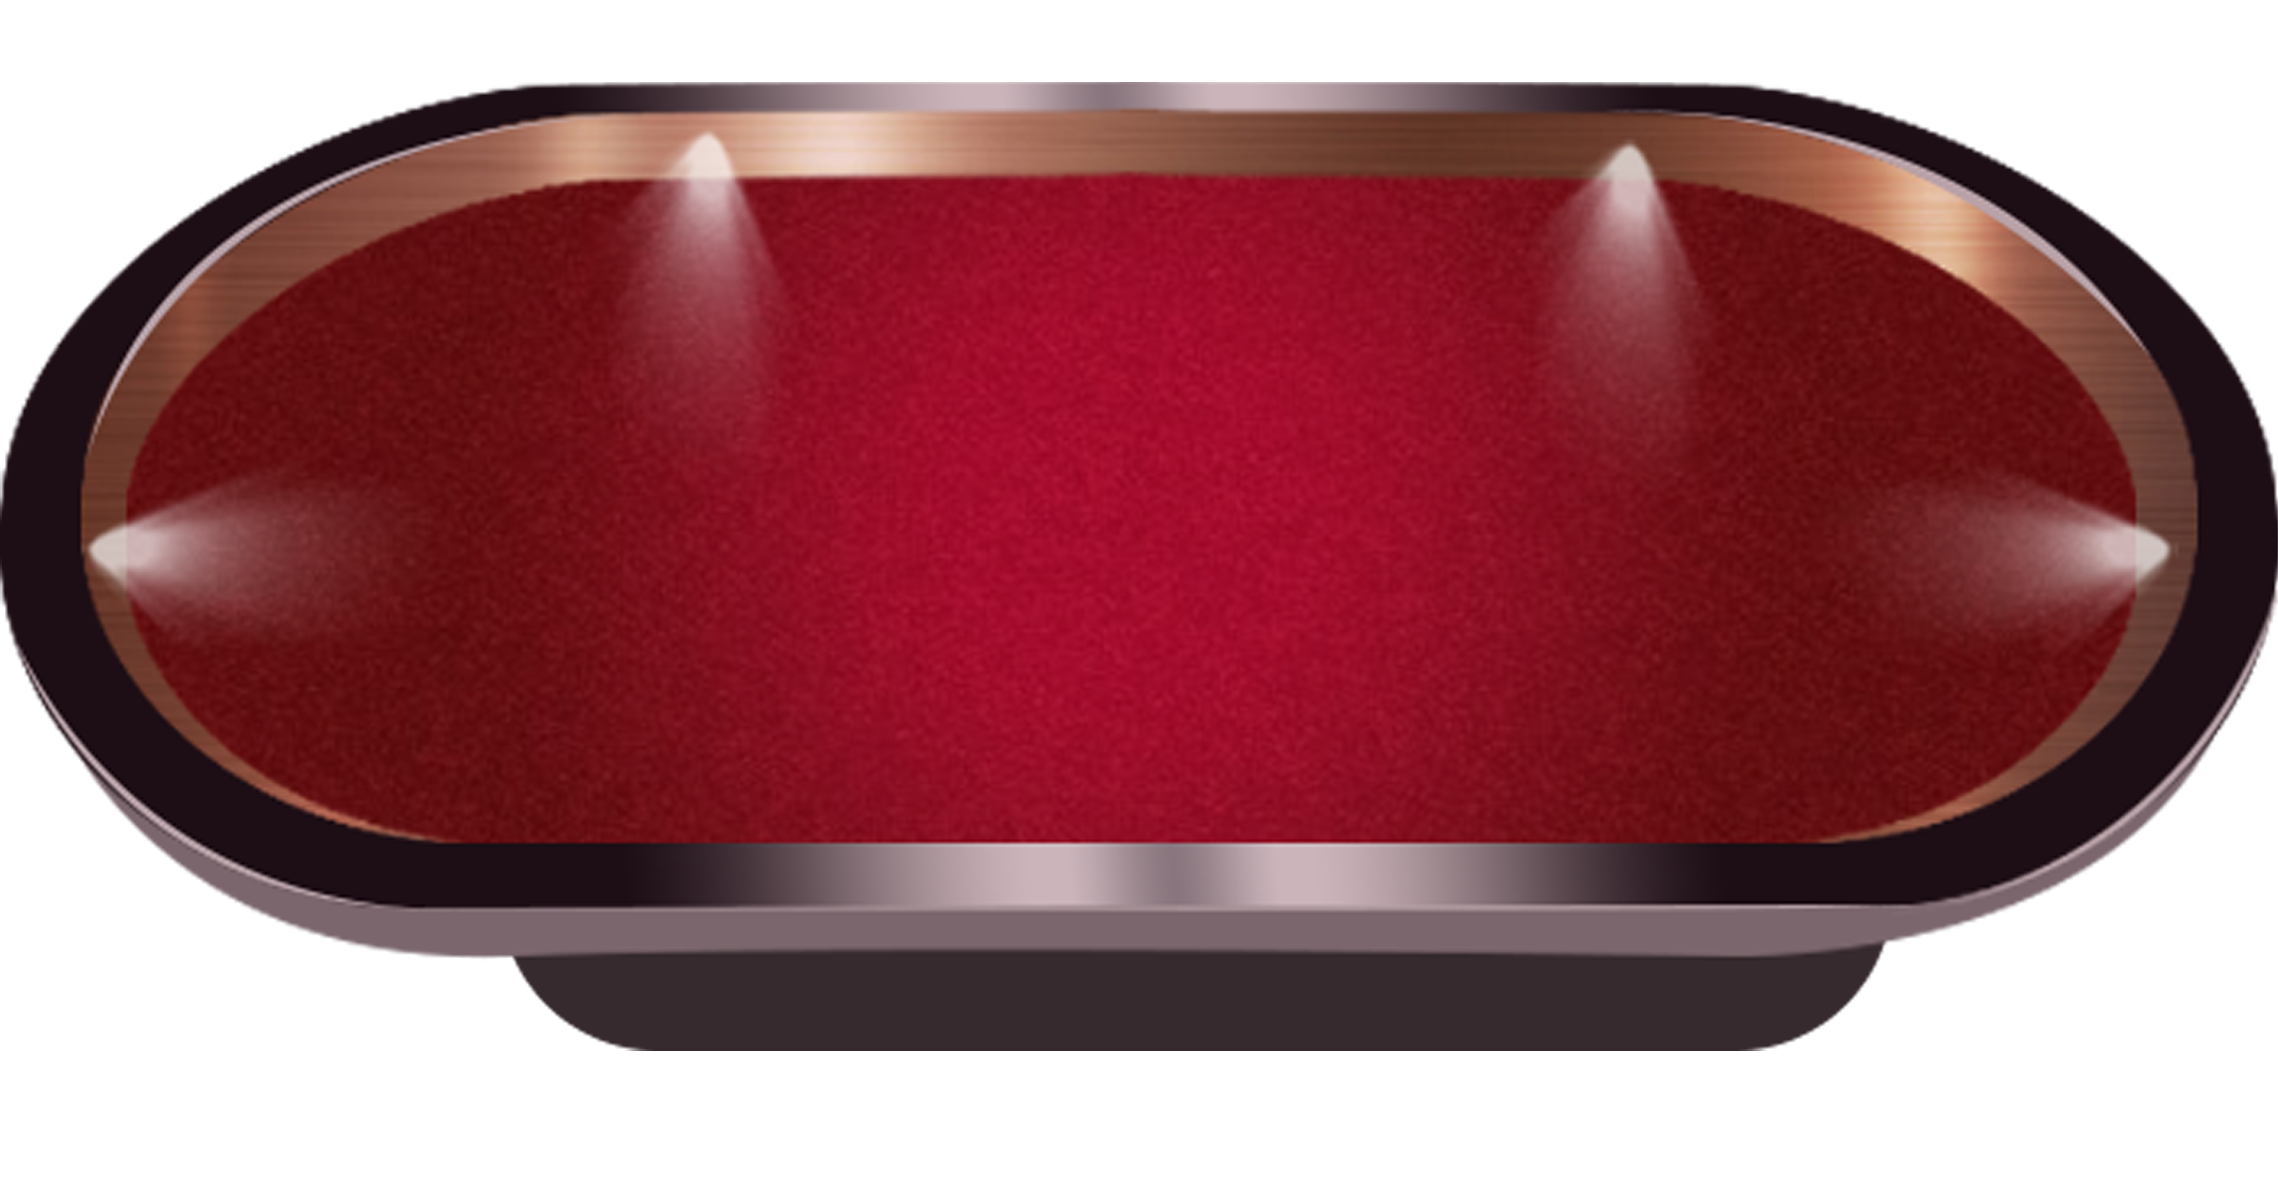
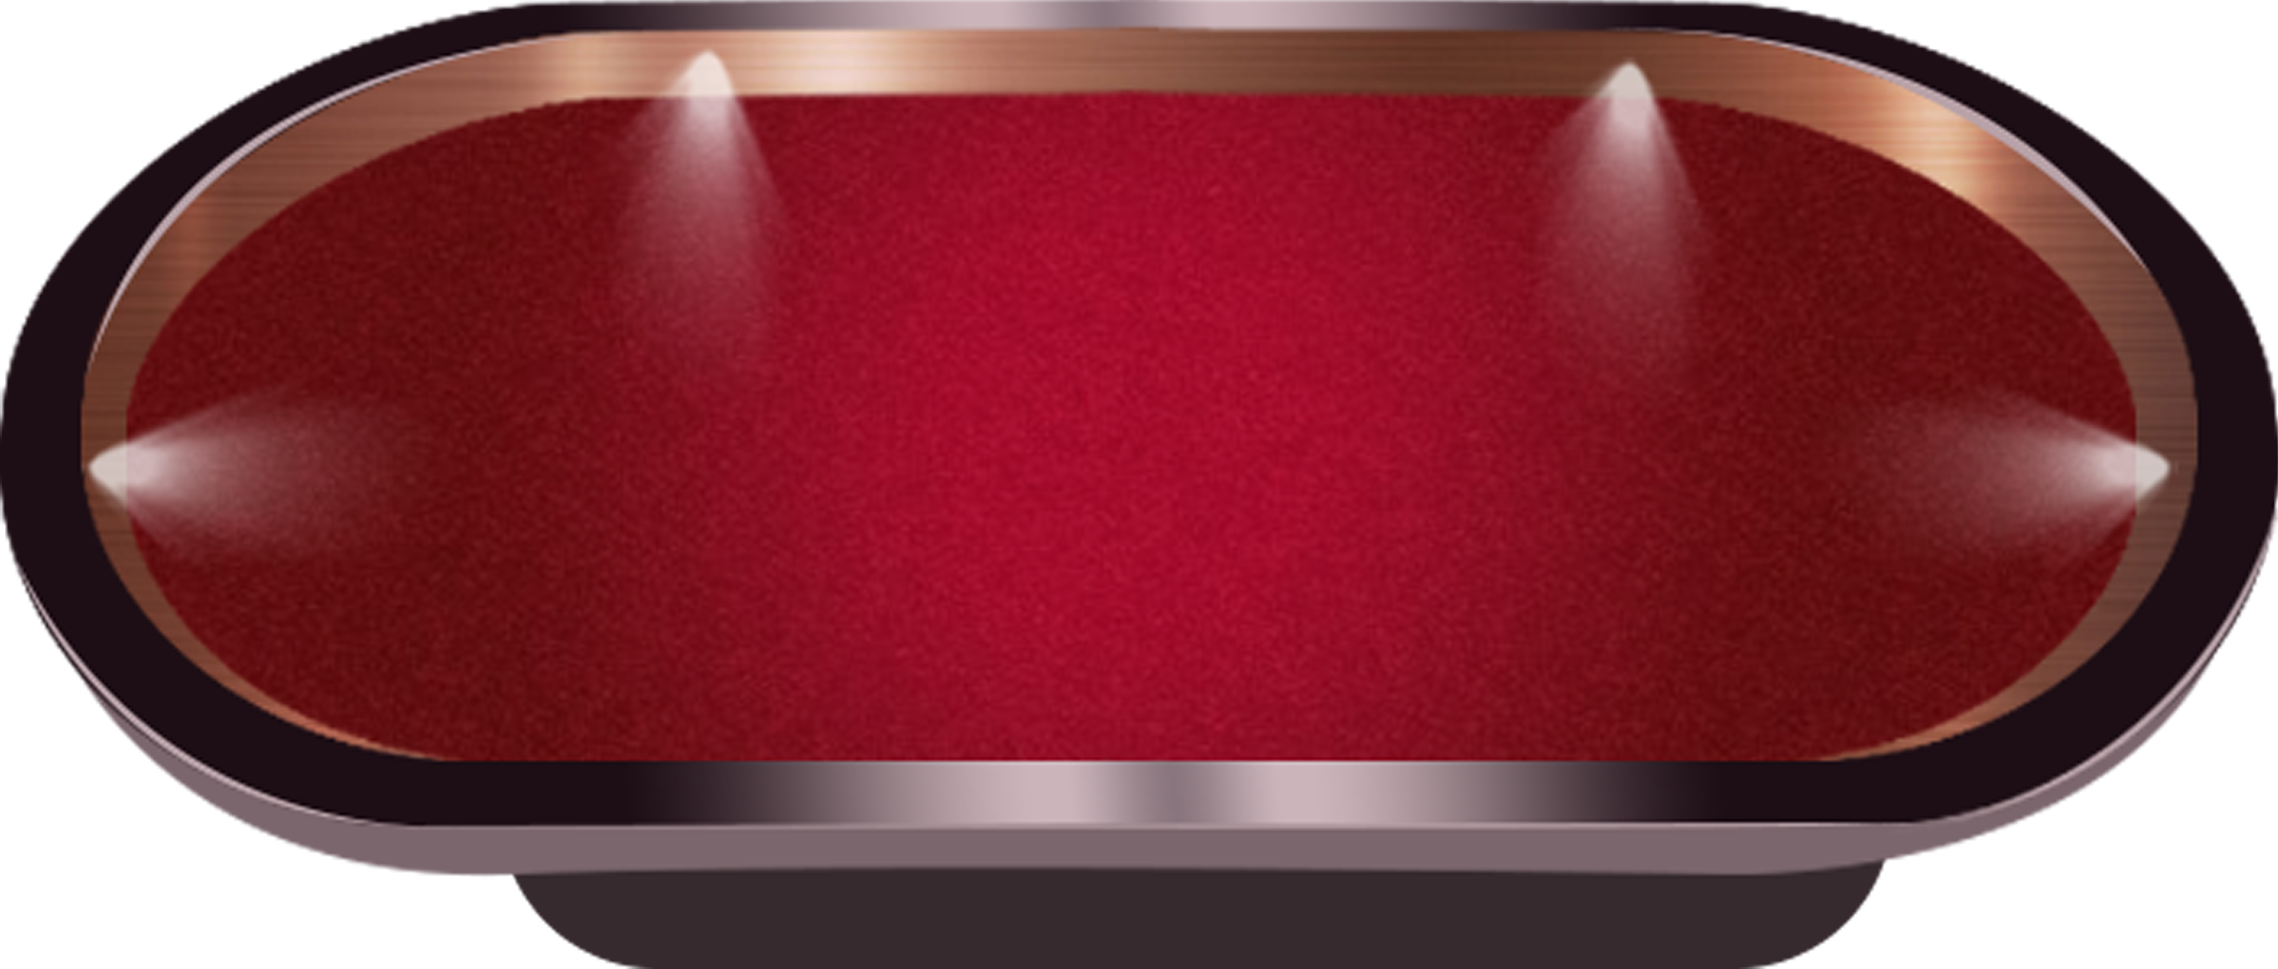
adds method to calculate table size (image)

diff --git a/lib/screens/game_play_screen/main_views/board_view/board_view.dart b/lib/screens/game_play_screen/main_views/board_view/board_view.dart
@@ -51,29 +51,27 @@ class BoardView extends StatelessWidget {
 
     final tableSize = boardAttributes.tableSize;
 
+    // TODO: WE NEED A TABLE WIDTH FACTOR FROM OUTSIDE
+    double tableWidthFactor = 1.0;
+    print(boardAttributes.screenDiagnolSize);
+    if (boardAttributes.screenDiagnolSize > 7.0) {
+      tableWidthFactor = 0.80;
+    }
+
+    // this calculates the table size after drawing the table image
+    gameState.calculateTableSizePostFrame();
+
     return Stack(
       clipBehavior: Clip.antiAlias,
       alignment: Alignment.center,
       children: [
-        // Container(
-        //   width: dimensions.width,
-        //   height: dimensions.height,
-        //   decoration: BoxDecoration(
-        //     border: Border.all(color: Colors.red, width: 3),
-        //     color: Colors.transparent,
-        //   ),
-        // ),
-
         Container(
           width: double.infinity,
           height: dimensions.height,
           child: BackgroundView(),
         ),
 
-        Positioned(
-          bottom: bottomPos,
-          child: TableView(tableSize: tableSize),
-        ),
+        TableView(tableWidthFactor: tableWidthFactor),
 
         /* center view */
         Positioned(
@@ -83,10 +81,6 @@ class BoardView extends StatelessWidget {
           height: boardAttributes.centerSize.height,
           child: Builder(
             builder: (context) {
-              // final cards = tableState.cards;
-              // final cardsOther = tableState.cardsOther;
-              // final pots = tableState.potChips;
-
               return Transform.scale(
                 scale: boardAttributes.centerViewCenterScale,
                 child: CenterView(
@@ -102,15 +96,19 @@ class BoardView extends StatelessWidget {
         ),
 
         // new players view
-        Positioned(
-          bottom: bottomPos,
-          child: PlayersOnTableViewNew(
-            tableSize: tableSize,
-            onUserTap: onUserTap,
-            gameComService: gameComService,
-            gameState: gameState,
-            maxPlayers: gameInfo.maxPlayers,
-          ),
+        ValueListenableBuilder(
+          valueListenable: gameState.tableSizeVn,
+          builder: (_, size, __) {
+            print('valuelistenablebuilder: $size');
+            if (size == null) return const SizedBox.shrink();
+            return PlayersOnTableViewNew(
+              tableSize: size,
+              onUserTap: onUserTap,
+              gameComService: gameComService,
+              gameState: gameState,
+              maxPlayers: gameInfo.maxPlayers,
+            );
+          },
         ),
 
         /* players */

diff --git a/lib/screens/game_play_screen/main_views/board_view/decorative_views/table_view.dart b/lib/screens/game_play_screen/main_views/board_view/decorative_views/table_view.dart
@@ -3,23 +3,29 @@ import 'package:pokerapp/models/game_play_models/provider_models/game_state.dart
 import 'package:provider/provider.dart';
 
 class TableView extends StatelessWidget {
-  final Size tableSize;
+  final double tableWidthFactor;
 
   TableView({
-    @required this.tableSize,
+    this.tableWidthFactor = 1.0,
   });
 
   Widget build(BuildContext context) {
+    final tableWidth = MediaQuery.of(context).size.width * tableWidthFactor;
+    final animationDuration = const Duration(milliseconds: 250);
     final gameState = GameState.getState(context);
+
     return Container(
-      height: tableSize.height,
+      key: gameState.tableKey,
+      // height is used as per the aspect ratio
+      width: tableWidth,
+      // color is used while debugging
+      color: Colors.amber,
       child: Consumer<RedrawBoardSectionState>(
         builder: (_, __, ___) => AnimatedSwitcher(
-          duration: const Duration(milliseconds: 250),
-          child: Image.memory(
-            gameState.assets.getBoard(),
+          duration: animationDuration,
+          child: Image.asset(
+            "assets/images/table/redtable.png",
             key: UniqueKey(),
-            fit: BoxFit.fitWidth,
           ),
         ),
       ),

diff --git a/lib/models/game_play_models/provider_models/game_state.dart b/lib/models/game_play_models/provider_models/game_state.dart
@@ -173,6 +173,25 @@ class GameState {
   // high-hand state
   dynamic highHand; // high-hand state
 
+  // table key - we need this to calculate the exact dimension of the table image
+  final GlobalKey tableKey = GlobalKey();
+
+  final ValueNotifier<Size> tableSizeVn = ValueNotifier<Size>(null);
+
+  void calculateTableSizePostFrame({bool force = false}) {
+    if (!force && tableSizeVn.value != null) return;
+    WidgetsBinding.instance.addPostFrameCallback((timeStamp) async {
+      while (true) {
+        final box = tableKey.currentContext.findRenderObject() as RenderBox;
+        if (box.size.shortestSide != 0.0) {
+          tableSizeVn.value = box.size;
+          break;
+        }
+        await Future.delayed(const Duration(milliseconds: 10));
+      }
+    });
+  }
+
   // central board key
   GlobalKey boardKey;
 

diff --git a/lib/screens/game_play_screen/main_views/board_view/players_on_table_view_new.dart b/lib/screens/game_play_screen/main_views/board_view/players_on_table_view_new.dart
@@ -65,7 +65,6 @@ class PlayersOnTableViewNew extends StatelessWidget {
     return Container(
       width: tableSize.width,
       height: tableSize.height,
-      // color: Colors.red.withOpacity(0.50),
       child: CustomMultiChildLayout(
         delegate: PlayerPlacementDelegate(),
         children: _getPlayers(context),
@@ -83,7 +82,6 @@ class PlayerPlacementDelegate extends MultiChildLayoutDelegate {
         SeatPos.topLeft,
         BoxConstraints.loose(size),
       );
-      print('topLeft: cs: $cs');
 
       positionChild(
         SeatPos.topLeft,
